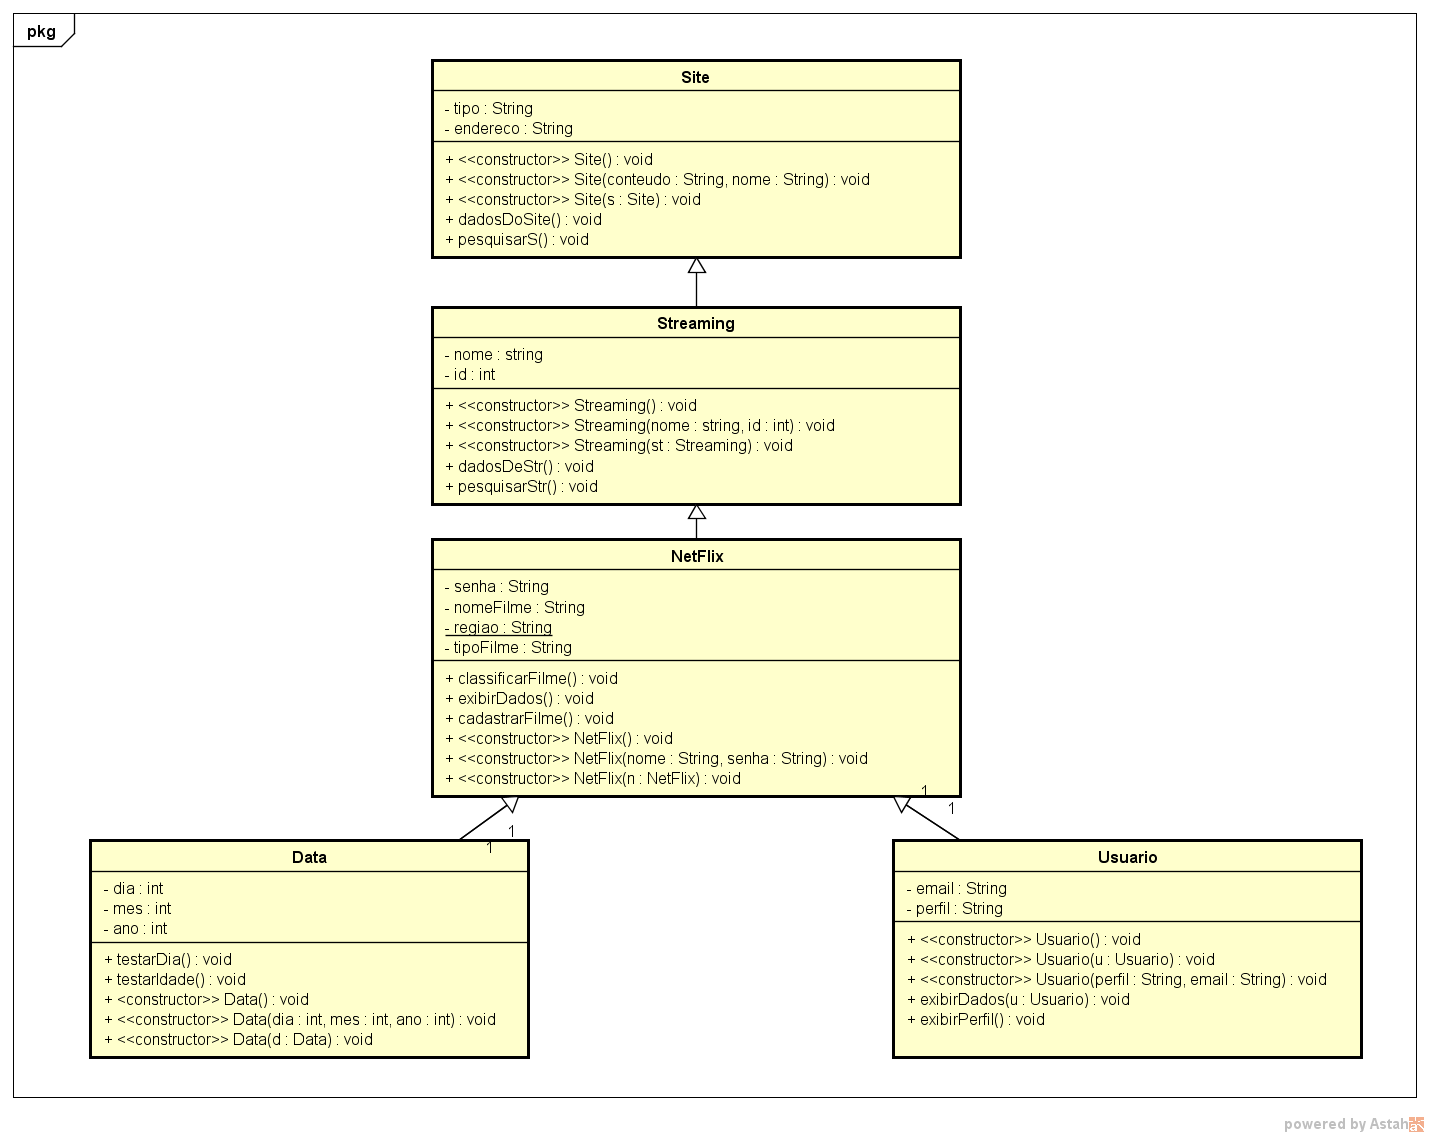
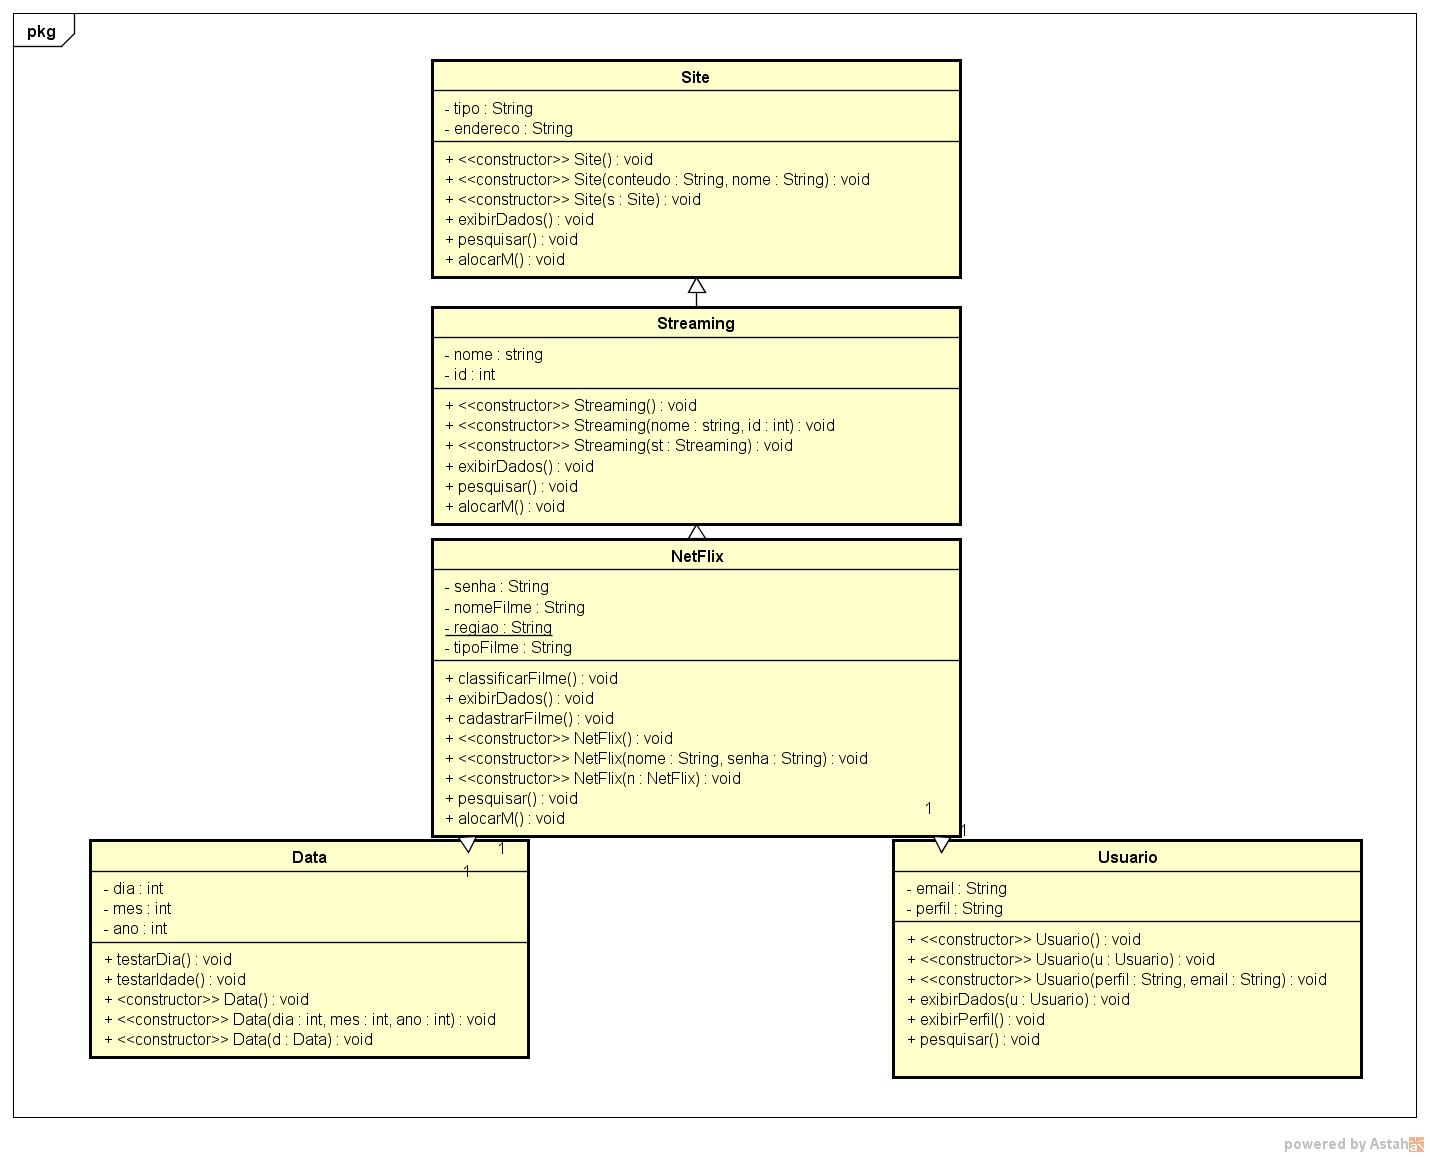
mudança de uml e classes

Changed region(s): [[0.0616, 0.0616, 0.9545, 0.9543]]

diff --git a/Site.h b/Site.h
@@ -3,7 +3,7 @@
 #include <iostream>
 #include <string>
 using std::string;
-class Site
+abstract class Site
 {
     friend ostream &operator<<(ostream &,const Site &);
     
@@ -15,9 +15,9 @@ public:
     const Site &operator=(const Site &);
     bool operator==(const Site &);
     virtual void exibirDados() const = 0;
-    void pesquisarS();
+    virtual void pesquisar() = 0;
     void Site(const int);
-    void alocarSites(const int);
+    virtual void alocarM(const int) = 0;
      string endereco;
 private:
  string tipo;

diff --git a/NetFlix2.cpp b/NetFlix2.cpp
@@ -54,7 +54,7 @@ const NetFlix2 &operator=(const NetFlix2 &net){
      alocarFilme(nFilmes);
      }
      
-    void NetFlix2::alocarUsuario(const int nUsers){
+    void NetFlix2::alocarM(const int nUsers){
          if(nUsers>0){
         listaDePessoas=new string[nUsers];
         quatPessoas=nUsers;

diff --git a/Streaming.cpp b/Streaming.cpp
@@ -45,7 +45,7 @@ void Streaming::Streaming(const int nstream){
      alocarStream(nstream);
     }
     
-void Streaming::alocarStream(const int nstream){
+void Streaming::alocarM(const int nstream){
     
     if(nstream>0){
         servicosStream=new string[nstream];

diff --git a/NetFlix2.h b/NetFlix2.h
@@ -29,7 +29,7 @@ protected:
     string perfil;
 private:
 	
-    void alocarUsuario(const int);
+    void alocarM(const int);
     void alocarFilme(const int);
     void cadastrarFilme();
     void cadastrarUsuario();

diff --git a/Streaming.h b/Streaming.h
@@ -15,7 +15,7 @@ public:
     void exibirDados() const;
     void pesquisarStr();
     void Streaming(const int);
-    void alocarStream(const int);
+    void alocarM(const int);
     string nome;
     int id;
     
